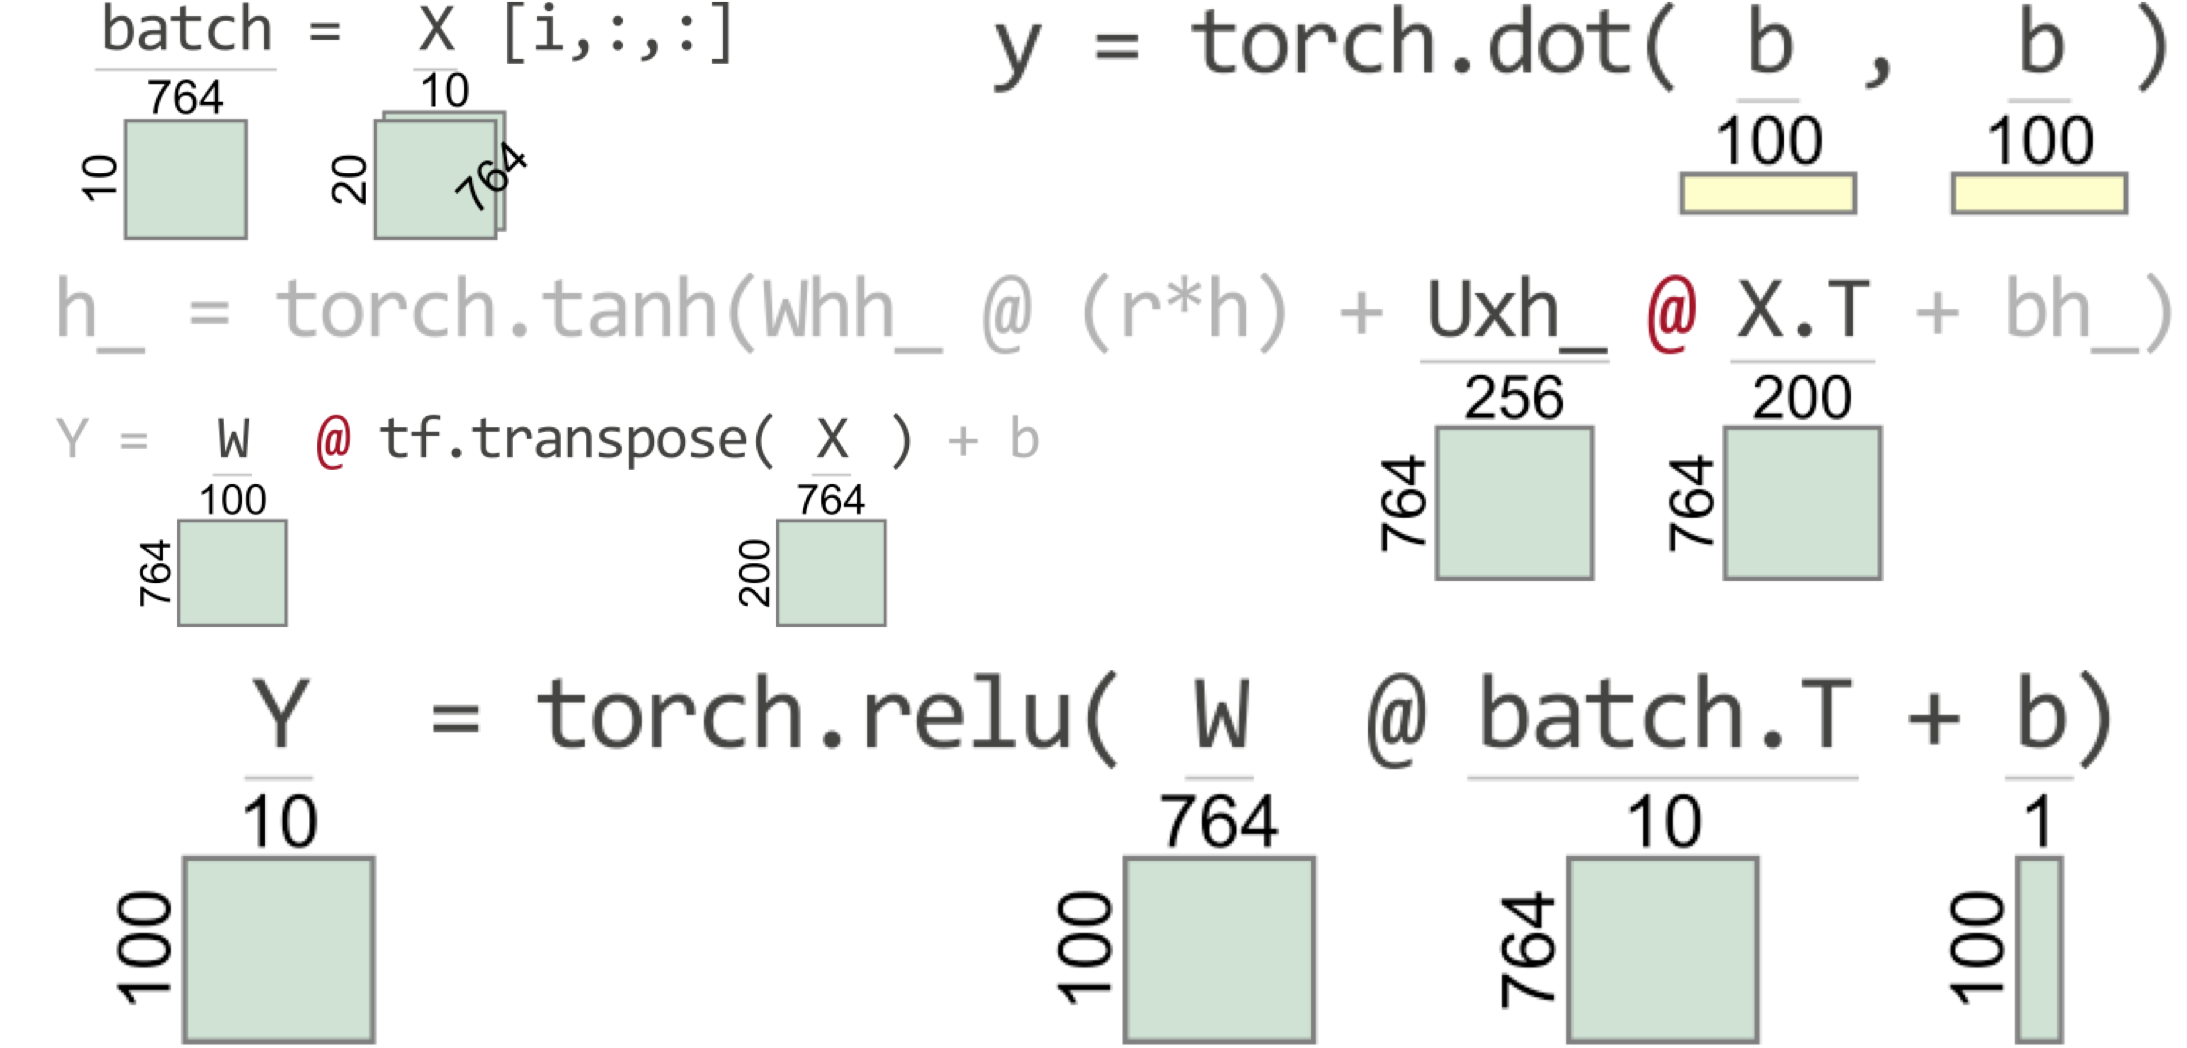
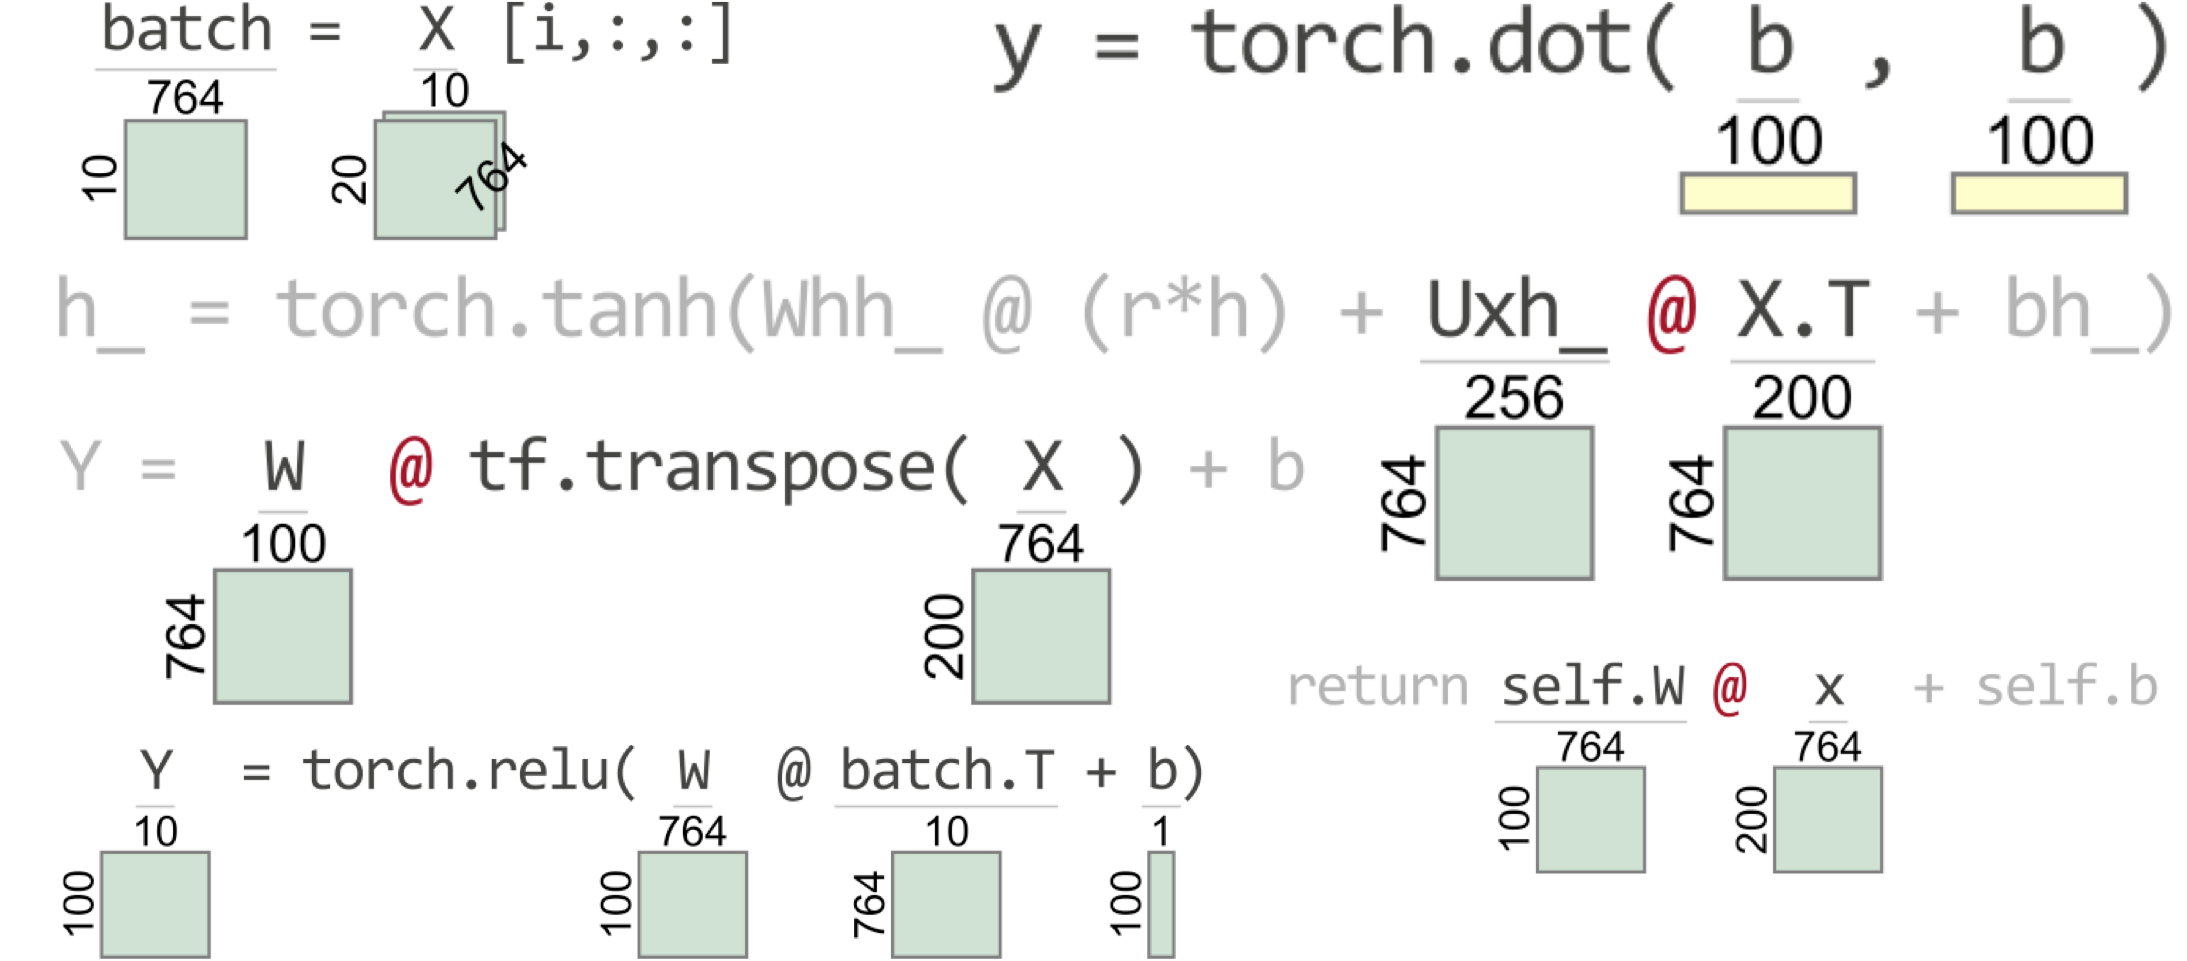
more on tensor-sensor

diff --git a/tensor-sensor/index.html b/tensor-sensor/index.html
@@ -71,11 +71,15 @@
 	<ul>
 	</ul>
 	</li>
-	<li><a href="#sec:1.5">Visualizing subexpression tensor shapes</a>
+	<li><a href="#sec:1.5">Warnings and limitations</a>
 	<ul>
 	</ul>
 	</li>
-	<li><a href="#sec:1.6">Key TensorSensor implementation Kung Fu</a>
+	<li><a href="#sec:1.6">Visualizing subexpression tensor shapes</a>
+	<ul>
+	</ul>
+	</li>
+	<li><a href="#sec:1.7">Key TensorSensor implementation Kung Fu</a>
 	<ul>
 	</ul>
 	</li>
@@ -84,14 +88,16 @@
 </div>
 
 
-<p>Most people solve deep learning problems using high-level libraries such as <a href="https://keras.io/">Keras</a> or <a href="https://www.fast.ai/">fastai</a>,  which makes sense. These libraries hide a lot of implementation details that we either don't care about or can learn later.  To truly understand deep learning, however, I think it's important at some point to implement your own network layers and training loops. For example, see my recent article called <a href="https://explained.ai/rnn/index.html">Explaining RNNs without neural networks</a>. If you're comfortable building deep learning models while leaving some of the details a bit fuzzy, then this article is not for you.  In my quirky case, I care more about learning something deeply than actually applying it to something useful, so I go straight for the details. (I guess that's why I work at a university, not an industry 😀.)  This article is in response to a pain point I experienced during an obsessive coding and learning burn through the fundamentals of deep learning in the isolation of Covid summer 2020.</p>
+<p>	Most people solve deep learning problems using high-level libraries such as <a href="https://keras.io/">Keras</a> or <a href="https://www.fast.ai/">fastai</a>,  which makes sense. These libraries hide a lot of implementation details that we either don't care about or can learn later.  To truly understand deep learning, however, I think it's important at some point to implement your own network layers and training loops. For example, see my recent article called <a href="https://explained.ai/rnn/index.html">Explaining RNNs without neural networks</a>. If you're comfortable building deep learning models while leaving some of the details a bit fuzzy, then this article is not for you.  In my quirky case, I care more about learning something deeply than actually applying it to something useful, so I go straight for the details. (I guess that's why I work at a university, not an industry 😀.)  This article is in response to a pain point I experienced during an obsessive coding and learning burn through the fundamentals of deep learning in the isolation of Covid summer 2020.</p>
 
 <p><center>
 <a href="images/teaser.png">
 <img src="images/teaser.png" width="40%" align="right" url="images/teaser.png">
 </a>
 </center>
-One of the biggest challenges when writing code to implement deep learning networks, particularly for us newbies, is getting all of the tensor (matrix and vector) dimensions to line up properly. It's really easy to lose track of tensor dimensionality in complicated expressions involving multiple tensors and tensor operations. When you ask for improper computations, you're going to run into some less than helpful exception messages.  To help myself and other programmers debug tensor code, I built a new library called <a href="https://github.com/parrt/tensor-sensor">TensorSensor</a> (<span class=inlinecode>pip install tensor-sensor</span>).  TensorSensor clarifies exceptions by augmenting messages and visualizing Python code to indicate the shape of tensor variables (see figure to the right for a teaser). It works with <a href="https://www.tensorflow.org/">Tensorflow</a>, <a href="https://pytorch.org/">PyTorch</a>, and <a href="https://numpy.org/">Numpy</a>, as well as higher-level libraries like <a href="https://keras.io/">Keras</a> and <a href="https://www.fast.ai/">fastai</a>.</p>
+One of the biggest challenges when writing code to implement deep learning networks, particularly for us newbies, is getting all of the tensor (matrix and vector) dimensions to line up properly. It's really easy to lose track of tensor dimensionality in complicated expressions involving multiple tensors and tensor operations.  Even when just feeding data into predefined <a href="https://www.tensorflow.org/">Tensorflow</a> network layers, we still need to get the dimensions right. When you ask for improper computations, you're going to run into some less than helpful exception messages.  To help myself and other programmers debug tensor code, I built a new library called <a href="https://github.com/parrt/tensor-sensor">TensorSensor</a> (<span class=inlinecode>pip install tensor-sensor</span>).  TensorSensor clarifies exceptions by augmenting messages and visualizing Python code to indicate the shape of tensor variables (see figure to the right for a teaser). It works with <a href="https://www.tensorflow.org/">Tensorflow</a>, <a href="https://pytorch.org/">PyTorch</a>, and <a href="https://numpy.org/">Numpy</a>, as well as higher-level libraries like <a href="https://keras.io/">Keras</a> and <a href="https://www.fast.ai/">fastai</a>.</p>
+
+<p><i>TensorSensor is currently at 0.1b1 so I'm happy to receive issues created at the</i> <a href="https://github.com/parrt/tensor-sensor">repo</a> <i>or direct email</i>.</p>
 
 
 
@@ -397,7 +403,7 @@ with tsensor.explain():
 
 <div class="codeblk">n_neurons = 100
 b = torch.rand(1,n_neurons) # 2D tensor 1 x n_neurons
-with tsensor.explain() as c:
+with tsensor.explain():
     y = b @ b.T</div>
 
 
@@ -412,7 +418,7 @@ with tsensor.explain() as c:
 
 
 <div class="codeblk">b = torch.rand(n_neurons) # 1D tensor
-with tsensor.explain() as c:
+with tsensor.explain():
     y = torch.dot(b, b)</div>
 
 
@@ -423,17 +429,6 @@ with tsensor.explain() as c:
 </p>
 
 <p>The visualization for 1D tensors look like 2D row vectors but the yellow color (versus pale green) signals that it's 1D. (This is important because tensor libraries often treat 1D vectors and 2D row vectors differently.) The result (<span class=inlinecode>y</span>) is a scalar and, hence, has no visualization component.</p>
-
-<p>Before moving on to 3D+ tensor visualizations, there are some important characteristics of <span class=inlinecode>explain()</span> to highlight.  First, unlike <span class=inlinecode>clarify()</span>, <span class=inlinecode>explain()</span> does not descend into code invoked from the statements in the <span class=inlinecode>with</span> block.  It only visualizes statements within the <span class=inlinecode>with</span> block proper. Every execution of the <span class=inlinecode>with</span> block statement(s) generates a new image and at most one image. In other words, if the <span class=inlinecode>with</span> code is in a loop, you  won't see multiple visualizations for the same statement.</p>
-
-<p>Second, both <span class=inlinecode>clarify()</span> and <span class=inlinecode>explain()</span> cause tensor statements to execute twice, so beware of side effects. For example, the following code prints &ldquo;hi&rdquo; twice, once by TensorSensor and once during normal program execution. Most tensor expressions are side-effect free, so it's usually not a problem, but keep it in mind. (See the implementation section below for more details.)</p>
-
-
-<div class="codeblk">with tsensor.explain():
-    print("hi")</div>
-
-
-<p>Finally, because <span class=inlinecode>explain()</span> creates a visualization for every statement in the <span class=inlinecode>with</span> block, &ldquo;explained&rdquo; code will run significantly slower. </p>
 
 
 
@@ -493,7 +488,38 @@ with tsensor.explain():
 
 
 
-<h2 id="sec:1.5">1.5 Visualizing subexpression tensor shapes</h2>
+<h2 id="sec:1.5">1.5 Warnings and limitations</h2>
+
+
+<p>There are some important characteristics of TensorSensor to highlight. First, unlike <span class=inlinecode>clarify()</span>, <span class=inlinecode>explain()</span> does not descend into code invoked from the statements in the <span class=inlinecode>with</span> block.  It only visualizes statements within the <span class=inlinecode>with</span> block proper. Every execution of the <span class=inlinecode>with</span> block statement(s) generates a new image and at most one image. In other words, if the <span class=inlinecode>with</span> code is in a loop, you  won't see multiple visualizations for the same statement.</p>
+
+<p>Second, both <span class=inlinecode>clarify()</span> and <span class=inlinecode>explain()</span> cause tensor statements to execute twice, so beware of <b>side effects</b>. For example, the following code prints &ldquo;hi&rdquo; twice, once by TensorSensor and once during normal program execution. Most tensor expressions are side-effect free, so it's usually not a problem, but keep it in mind. (See the implementation section below for more details.)</p>
+
+
+<div class="codeblk">with tsensor.explain():
+    print("hi")</div>
+
+
+<p>Third, TensorSensor doesn't handle all statements/expressions and all Python code structures. The parser ignores lines starting with keywords other than <span class=inlinecode>return</span>, so the clarify and explain routines do not handle methods expressed like:</p>
+
+
+<div class="codeblk">def bar(): y = x * 3 + b</div>
+
+
+<p>Instead, use:</p>
+
+
+<div class="codeblk">def bar():
+    y = x * 3 + b</div>
+
+
+<p>The statements in a clarify or explain <span class=inlinecode>with</span> block must also be on lines by themselves.</p>
+
+<p>Finally, because <span class=inlinecode>explain()</span> creates a visualization for every statement in the <span class=inlinecode>with</span> block, &ldquo;explained&rdquo; code will run significantly slower. </p>
+
+
+
+<h2 id="sec:1.6">1.6 Visualizing subexpression tensor shapes</h2>
 
 
 <p>Most of the time, knowing the shape of the tensor variables referenced in an expression is sufficient to debug a Python statement. Sometimes, however, and operator combining the results of other operators is the source of the problem.  We need a way to visualize the shape of all partial results, which we can do with and upside down tree that shows the data flow and shape of all subexpressions. In the language world, we call that an abstract syntax tree or AST. For example, here is the fake GRU computation set up from above (with a proper <span class=inlinecode>Uxh_</span> definition):</p>
@@ -527,12 +553,14 @@ X = torch.rand(n,d)             # fake input</div>
 
 
 
-<h2 id="sec:1.6">1.6 Key TensorSensor implementation Kung Fu</h2>
+<h2 id="sec:1.7">1.7 Key TensorSensor implementation Kung Fu</h2>
 
+
+<p><i>And now for something completely different...</i></p>
 
 <p>The implementation of TensorSensor leveraged my experience as a language implementor, which came in surprisingly handy in my new world as a machine learning droid.  If you have similar experience, most of the details will be clear to you in the code, but it's worth exploring the key trick to making everything you see in this article work: incrementally parsing and evaluating bits of Python statements and expressions, recording their partial results. (It's also the case that I abused <span class=inlinecode>matplotlib</span> horribly to generate the visualizations, but you can check out the code to see how that works.)</p>
 
-<p>As I pointed out earlier, Python traps exceptions at the statement level. For example, if you get an <span class=inlinecode>IndexError</span> in <span class=inlinecode>a[i] + b[j]</span>, Python doesn't tell you  which index operation caused the exception. The same is true for tensor computations and calls to tensor libraries; only the entire statement is flagged. At first, I thought I would have to process the Python bytecode and inject code to track subexpression evaluation, but realized I could do the same thing using <span class=inlinecode>eval()</span> using substrings of the Python statement.</p>
+<p>As I pointed out earlier, Python traps exceptions at the statement level. For example, if you get an <span class=inlinecode>IndexError</span> in <span class=inlinecode>a[i] + b[j]</span>, Python doesn't tell you  which index operation caused the exception. The same is true for tensor computations and calls to tensor libraries; only the entire statement is flagged. At first, I thought I would have to process the Python bytecode and inject code to track subexpression evaluation, but realized I could do the same thing using <span class=inlinecode>eval()</span> on various substrings of the Python statement.</p>
 
 <p>To identify the individual operator and operands that triggered an exception, we literally have to reevaluate each operation in the Python line, in the proper order, piece-by-piece and wait for an exception to occur. That, in turn, means parsing the statement to build an appropriate AST with operators as subtree roots. For example, the parser converts </p>
 
@@ -540,7 +568,7 @@ X = torch.rand(n,d)             # fake input</div>
 <div class="codeblk">h_ = torch.tanh(Whh_ @ (r*h) + Uxh_ @ X.T + bh_)</div>
 
 
-<p>into this AST with all tokens as leaves:</p>
+<p>into this AST:</p>
 
 <p>
 <a href="images/torch-gru-ast.svg">
@@ -548,13 +576,13 @@ X = torch.rand(n,d)             # fake input</div>
 </a>
 </p>
 
-<p>I used the built-in Python tokenizer, but built my own parser for the subset of statements (assignments, <span class=inlinecode>return</span>) and operations supported by TensorSensor. There is a built-in Python parser, but it generates a different AST than I wanted; plus, filtering the built-in tree structure for just the parts I care about would be about the same amount of work as the parser.  I built the parser using simple recursive descent, rather than adding another dependency (my friend <span class=inlinecode>antlr</span>) to TensorSensor. (See module <span class=inlinecode>tsensor.parser</span>.)</p>
+<p>I used the built-in Python tokenizer, but built my own parser for the subset of statements (assignments, <span class=inlinecode>return</span>) and operations supported by TensorSensor. There is a built-in Python parser, but it generates a different AST than I wanted; plus, filtering the built-in tree structure for just the parts I care about would be about the same amount of work as writing the parser.  I built the parser using simple recursive descent, rather than adding another dependency (my friend <a href="http://www.antlr.org">antlr</a>) to TensorSensor. (See module <span class=inlinecode>tsensor.parser</span>.)</p>
 
-<p>Next, we need to augment the AST with the values of all subexpressions so it looks like the AST from the previous section.  This is a straightforward bottom-up walk of the AST calling <span class=inlinecode>eval()</span> on each subexpression, saving the result in the associated node. In order to execute the various bits of the expression in the proper context, though, TensorSensor has to walk the call stack back down to the specific context that directly invoked the tensor library.  The trick is not chasing the call stack to far, down into the tensor library. (See <span class=inlinecode>tsensor.analysis.deepest_frame()</span>.)</p>
+<p>Next, we need to augment the AST with the values of all subexpressions so it looks like the AST from the previous section.  This is a straightforward bottom-up walk of the AST calling <span class=inlinecode>eval()</span> on each subexpression, saving the result in the associated node. In order to execute the various bits of the expression in the proper context after an exception, though, TensorSensor has to walk the call stack back down to the specific context that directly invoked the tensor library.  The trick is not chasing the call stack too far, down into the tensor library. (See <span class=inlinecode>tsensor.analysis.deepest_frame()</span>.)</p>
 
-<p>Once the AST is augmented with partial values, we need to find the smallest subexpressions that evaluates to a tensor for visualization purposes. That corresponds to the deepest subtree that evaluates to a tensor, which is the role of <span class=inlinecode>tsensor.analysis.smallest_matrix_subexpr()</span>.</p>
+<p>Once the AST is augmented with partial values, we need to find the smallest subexpressions that evaluate to tensors for visualization purposes. That corresponds to the deepest subtrees that evaluate to tensors, which is the role of <span class=inlinecode>tsensor.analysis.smallest_matrix_subexpr()</span>.</p>
 
-<p>Both <span class=inlinecode>clarify()</span> and <span class=inlinecode>explain()</span> use the <span class=inlinecode>with</span>-statement functions <span class=inlinecode>__enter__()</span> and <span class=inlinecode>__exit__()</span>. To initiate <span class=inlinecode>clarify()</span>, simply remembers the execution context and, while exiting, it checks for an exception (<span class=inlinecode>is_interesting_exception()</span>). If there is an exception, <span class=inlinecode>clarify()</span> passes the offending Python source line to  <span class=inlinecode>tsensor.viz.pyviz()</span>, which reevaluates the line piece-by-piece to find the operation that triggered the exception. Then it visualizes the line of code with matplotlib.</p>
+<p>Both <span class=inlinecode>clarify()</span> and <span class=inlinecode>explain()</span> use the <span class=inlinecode>with</span>-statement functions <span class=inlinecode>__enter__()</span> and <span class=inlinecode>__exit__()</span>. To initiate <span class=inlinecode>clarify()</span>, we just need to remember the execution context and, while exiting, we check for an exception (<span class=inlinecode>is_interesting_exception()</span>). If there is an exception, <span class=inlinecode>clarify()</span> passes the offending Python source line to  <span class=inlinecode>tsensor.viz.pyviz()</span>, which reevaluates the line piece-by-piece to find the operation that triggered the exception. Then it visualizes the line of code with matplotlib.</p>
 
 <p>To visualize each line of Python code as it executes, <span class=inlinecode>explain()</span>'s <span class=inlinecode>__enter__()</span> function creates a <span class=inlinecode>ExplainTensorTracer</span> object and passes it to <span class=inlinecode>sys.settrace()</span>. Python then notifies the tracer right before each line of code is executed. The tracer parses the line and, if there's no syntax error, the tracer calls <span class=inlinecode>tsensor.viz.pyviz()</span> to visualize the statement. The <span class=inlinecode>__exit__()</span> function turns off tracing but also checks for an exception like <span class=inlinecode>clarify()</span> does.</p>
 
